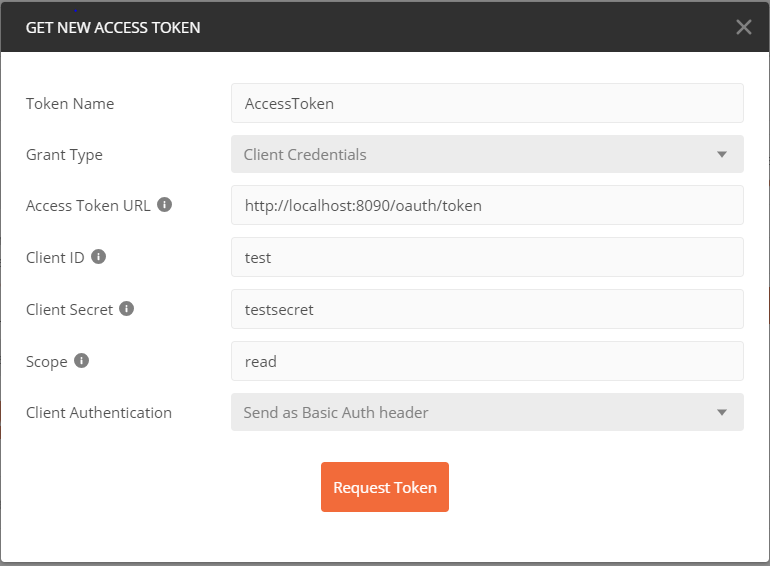
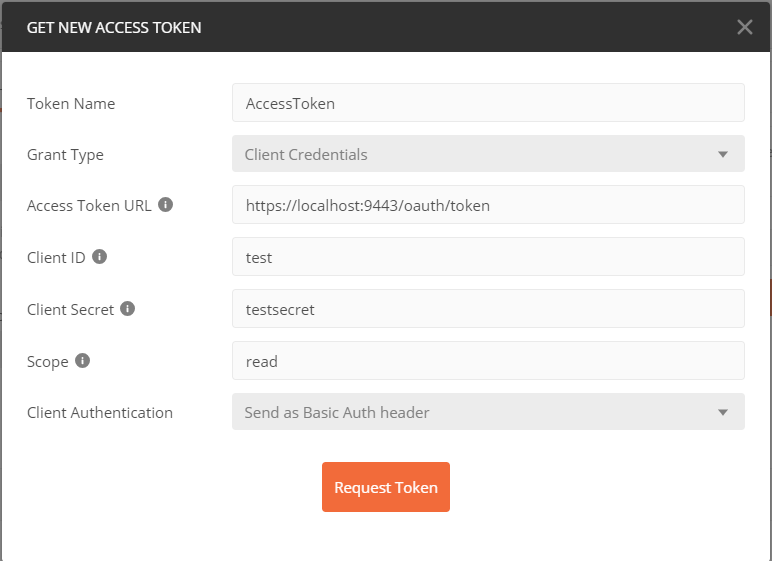
added cert usages doc

diff --git a/README.md b/README.md
@@ -42,18 +42,25 @@ There are total two applications:
                 2.  PUT request: /api/v1/products/{id} : https://localhost:8443/api/v1/products/13860427
                     *  RequestBody: {"value": 124.23,"currency_code": "USD"}
 
-## Usages                    
+## Usages
+                    
 1. Get code checked out from git at command line
 2. Navigate to appropiate application (myRetail-authorization-server or myRetail-products-service)folder.
 3. Run Gradle clean Build command in cmd
-4.  Finally Run Gradle bootRun command in cmd and wait for the application to start.
-5. Once the application starts, Please use API testing application like POSTMAN to call authorization-server to get the access token using following:
-     * ![alt ETDA](./docs/OauthAccessTokenRequest.PNG)
+4. Finally Run Gradle bootRun command in cmd and wait for the application to start.
+   * Note: Please make sure sure both application are being started successfully before go to step 5 by the verifying the startup logs in cmd (StartupInfoLogger - Started Oauth2AuthorizationApplication... and StartupInfoLogger - Started ProductsServiceApplication...)
+5. Once the applications start sucessfully, please take the following steps to get api response
+    1.  install ([ca.der](./docs/cert/ca.der) to java cacerts keystore by the running the following commands:
+        * OpenJDK: keytool -importcert -alias startssl -keystore "%JAVA_HOME%/lib/security/cacerts" -storepass changeit -file ./root-ca/ca.der
+    2.  install ([ca.pem](./docs/cert/ca.pem) to API testing application like POSTMAN CA certificates using following:
+        * ![alt ETDA](./docs/CaCertificate.PNG)
+    2.  call authorization-server access token endpoint (https://localhost:9443/oauth/token) to get the access token using following:
+            * ![alt ETDA](./docs/OauthAccessTokenRequest.PNG)
      
-     Note: current access token are valid for an hour
-6. Next use that access token as bearer token for GET/PUT request to Product Api
-     * ![alt ETDA](./docs/GetRequest.PNG)
-     * ![alt ETDA](./docs/PutRequest.PNG)
+        Note: current access token are valid for an hour
+    3.  Next use that access token as bearer token for GET/PUT request to Product Api
+            * ![alt ETDA](./docs/GetRequest.PNG)
+            * ![alt ETDA](./docs/PutRequest.PNG)
      
 Note: Please make sure to turn off the ssl certificate validation. Because Product Api uses self signed ssl cerificate for encrypted https channel.
 
